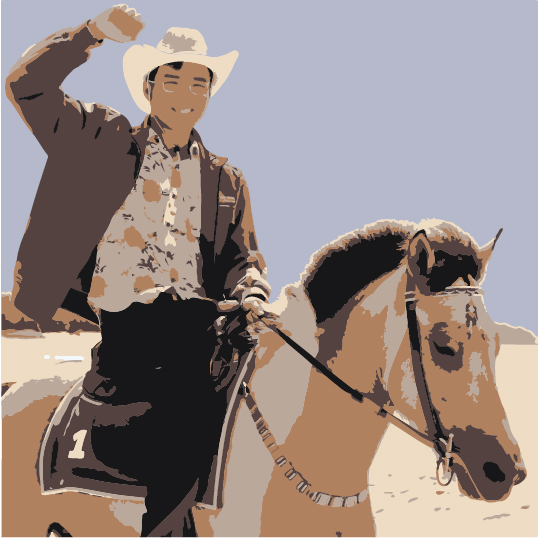
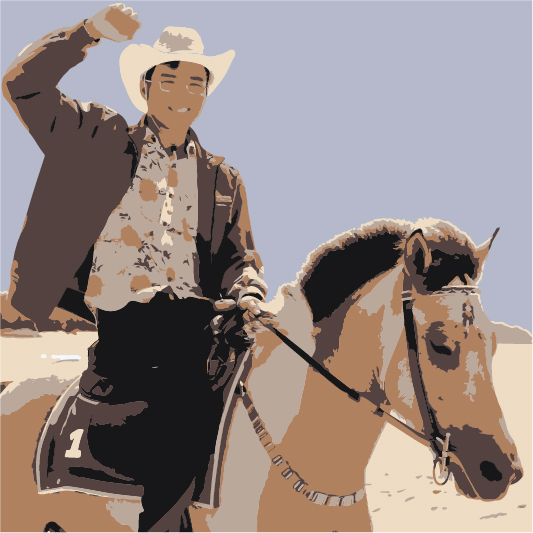
self-img jpg

diff --git a/index.html b/index.html
@@ -108,7 +108,7 @@
                             </p>
                         </div>
                         <div class="item-about-self">
-                            <img class="" src="https://raw.githubusercontent.com/MysteryBush/portfolio_web/main/img/self-img.png"
+                            <img class="" src="https://raw.githubusercontent.com/MysteryBush/portfolio_web/main/img/self-img.jpg"
                                 alt="">
                         </div>
                     </div>
